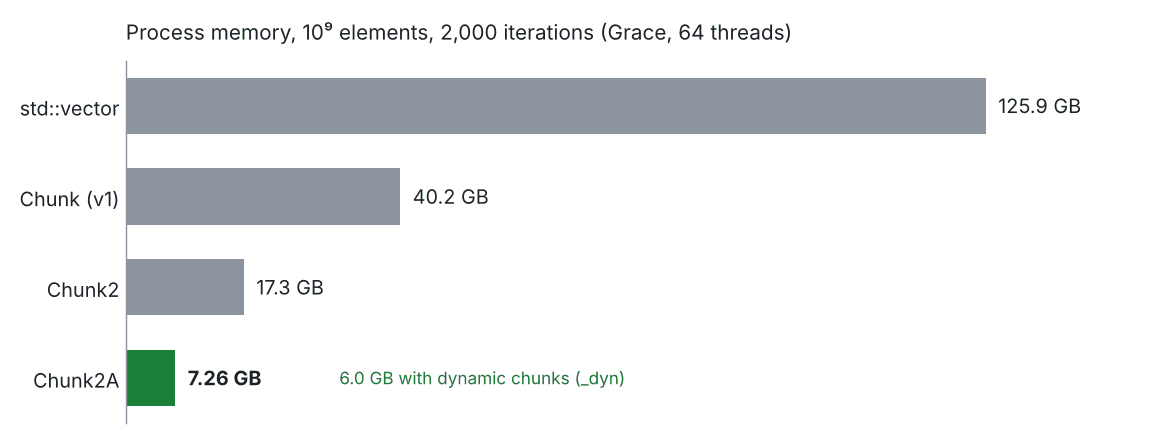
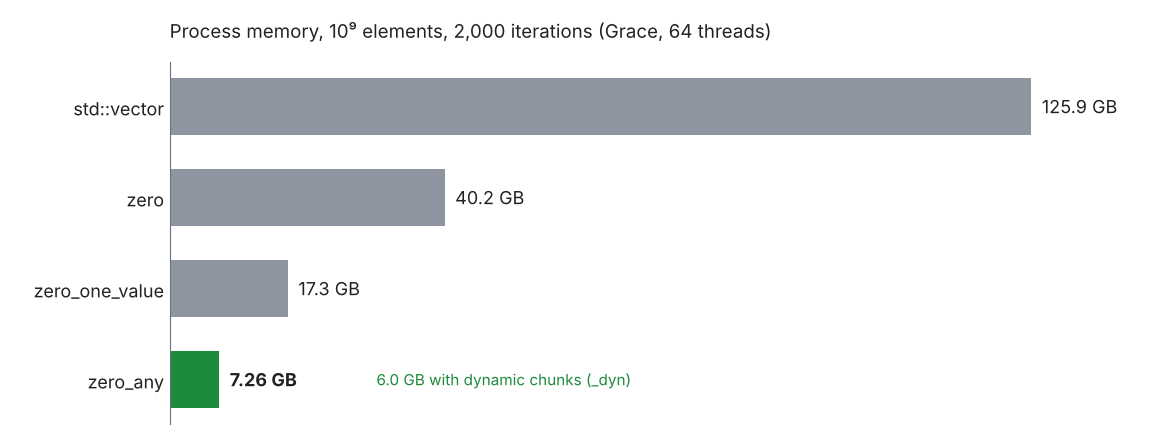
change memory bench picture

diff --git a/scripts/plot_memory_bench.py b/scripts/plot_memory_bench.py
@@ -1,0 +1,75 @@
+#!/usr/bin/env python3
+# Copyright 2026 CEA (www.cea.fr)
+# SPDX-License-Identifier: Apache-2.0
+"""Draw docs/images/memory_bench.png and memory_bench_fr.png, the README's
+process-memory figure of the reference benchmark (shrink_bench).
+
+The figures are the measured ones (Grace, 64 threads, 10^9 elements, 2,000
+iterations, static chunks of 256): edit MEASURES when the benchmark is run
+again. Needs matplotlib; uses the Inter font when installed.
+
+    python3 scripts/plot_memory_bench.py   # from the repository root
+"""
+from pathlib import Path
+
+import matplotlib
+
+matplotlib.use("Agg")
+import matplotlib.pyplot as plt  # noqa: E402
+from matplotlib import font_manager  # noqa: E402
+
+# (container, GB), top to bottom; the last one is highlighted.
+MEASURES = [("std::vector", 125.9), ("zero", 40.2), ("zero_one_value", 17.3), ("zero_any", 7.26)]
+DYN_GB = 6.0  # zero_any with dynamic chunks (_dyn)
+
+TEXT = {
+    "en": {"title": "Process memory, 10⁹ elements, 2,000 iterations (Grace, 64 threads)",
+           "unit": "GB", "dec": ".", "dyn": "{} GB with dynamic chunks (_dyn)", "out": "memory_bench.png"},
+    "fr": {"title": "Mémoire du process, 10⁹ éléments, 2 000 itérations (Grace, 64 threads)",
+           "unit": "Go", "dec": ",", "dyn": "{} Go avec les chunks dynamiques (_dyn)", "out": "memory_bench_fr.png"},
+}
+
+GREY, GREEN, AXIS, INK = "#8e95a1", "#1e8a3c", "#6b7280", "#222222"
+
+
+def _value(gb, dec):
+    text = f"{gb:.2f}" if gb < 10 else f"{gb:.1f}"
+    return text.replace(".", dec)
+
+
+def draw(lang, out_dir):
+    t = TEXT[lang]
+    if any("Inter" in f.name for f in font_manager.fontManager.ttflist):
+        plt.rcParams["font.family"] = "Inter"
+    fig, ax = plt.subplots(figsize=(11.7, 4.42), dpi=100)
+    fig.subplots_adjust(left=0.145, right=0.97, top=0.86, bottom=0.04)
+    names = [n for n, _ in MEASURES][::-1]
+    values = [v for _, v in MEASURES][::-1]
+    colors = [GREEN] + [GREY] * (len(values) - 1)
+    ax.barh(names, values, height=0.62, color=colors)
+    top = max(values)
+    for i, v in enumerate(values):
+        best = i == 0
+        ax.text(v + top * 0.012, i, f"{_value(v, t['dec'])} {t['unit']}", va="center", fontsize=13,
+                color=INK, fontweight="bold" if best else "normal")
+    ax.text(top * 0.24, 0, t["dyn"].format(f"{DYN_GB:.1f}".replace(".", t["dec"])), va="center", fontsize=11, color=GREEN)
+    ax.set_xlim(0, top * 1.12)
+    ax.set_xticks([])
+    ax.tick_params(axis="y", length=0, labelsize=13, labelcolor=INK, pad=4)
+    for side in ("top", "right", "bottom"):
+        ax.spines[side].set_visible(False)
+    ax.spines["left"].set_color(AXIS)
+    fig.text(0.145, 0.93, t["title"], fontsize=13.5, color=INK, va="center")
+    fig.savefig(out_dir / t["out"], facecolor="white")
+    plt.close(fig)
+
+
+def main():
+    out_dir = Path("docs/images")
+    for lang in TEXT:
+        draw(lang, out_dir)
+        print(f"wrote {out_dir / TEXT[lang]['out']}")
+
+
+if __name__ == "__main__":
+    main()
